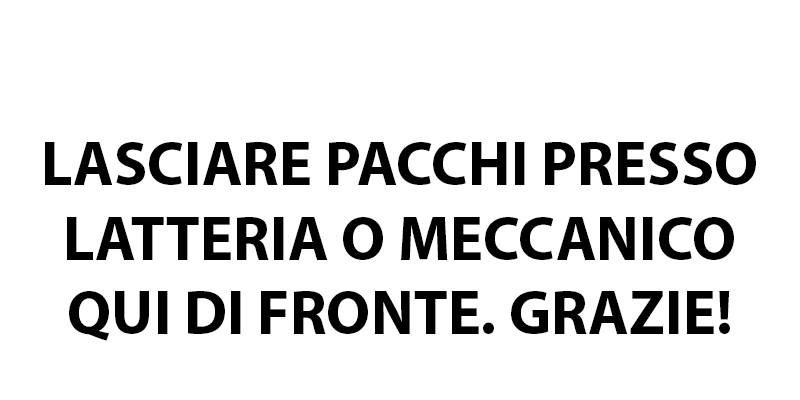
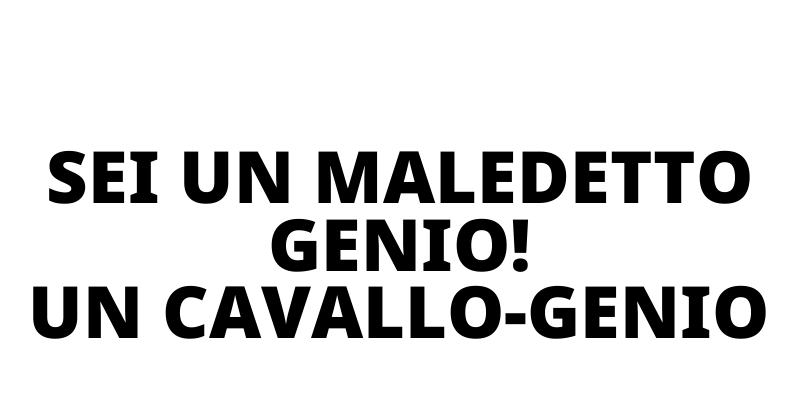
debug

Changed region(s): [[0.0312, 0.54, 0.9688, 0.87], [0.0312, 0.33, 0.9688, 0.51]]

diff --git a/mostra_immagine.py b/mostra_immagine.py
@@ -83,7 +83,8 @@ def main():
     actual_red = ""
 
     with open("actual_images.json", "r", encoding="utf-8") as file:
-        j = json.load(file)
+        j = json.loads(file.read())
+        print(j)
         actual_black = j["black"] 
         actual_red = j["red"]
        